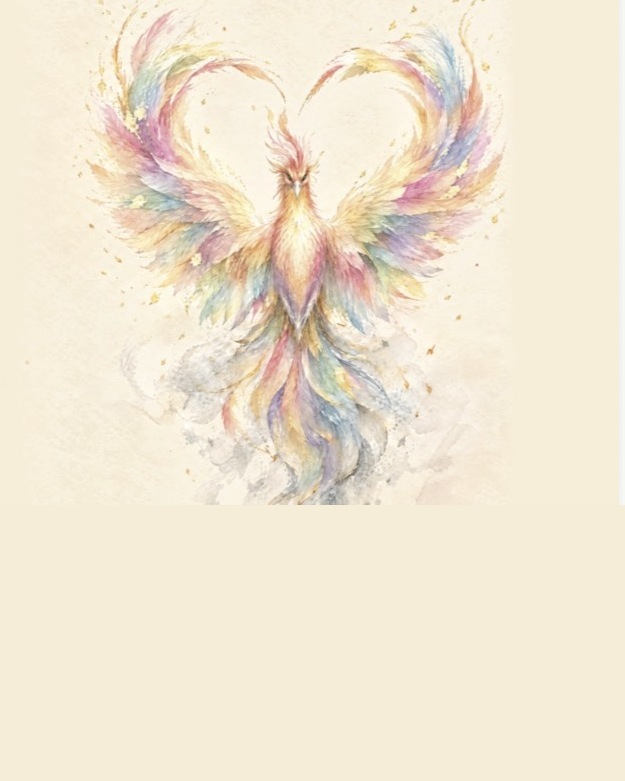
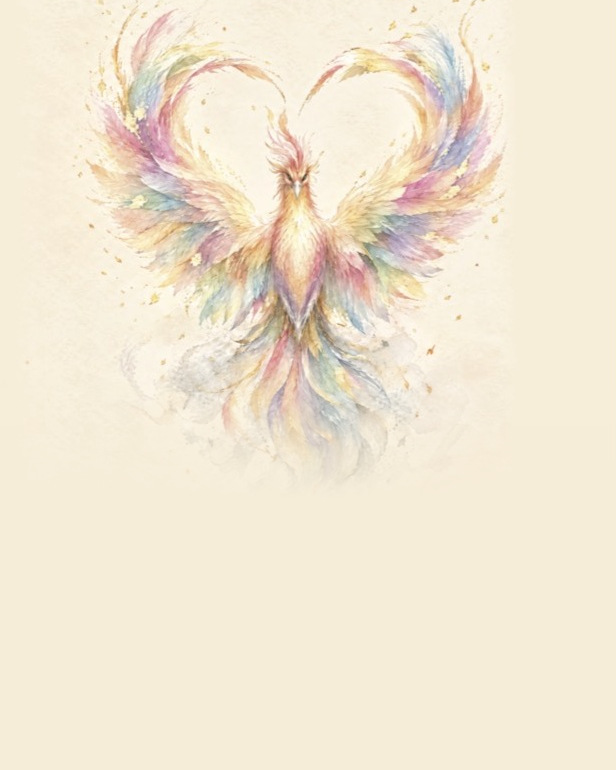
Corrige el recorte de las cubiertas y el usuario de Instagram
- El libro 3D toma la proporción real de cada cubierta en lugar de un
  marco fijo de 440x640 que recortaba la parte de abajo (la frase
  "Atrévete a arder. Atrévete a renacer."). Lo mismo en el cierre.
- El fénix de la portada termina en un fundido al papel en vez de en un
  corte seco.
- Usuario de Instagram: @aptorrescusa (antes @angel19643).

Claude-Session: https://claude.ai/code/session_019RwaMab3NRKTS3z65DGbsR

diff --git a/instagram-studio/engine/slides.css b/instagram-studio/engine/slides.css
@@ -281,22 +281,21 @@
 /* Portada con libro 3D protagonista */
 .t-portada.con-libro .content { bottom: 175px; gap: 26px; }
 .t-portada.con-libro .stage3d { top: 120px; height: 640px; }
-.t-portada.con-libro .book { width: 400px; height: 600px; }
+.t-portada.con-libro .book { height: 600px; }
 [data-tema$="acuarela"] .t-portada .sub, [data-tema="papel"] .t-portada .sub { color: var(--ink); }
 
 /* LIBRO */
 .t-libro .stage3d, .t-portada .stage3d { position: absolute; z-index: 2; left: 0; right: 0; top: 150px; height: 700px; perspective: 1800px; display: grid; place-items: center; }
 .t-libro .book, .t-portada .book {
   position: relative;
-  width: 440px;
-  height: 640px;
+  height: 640px;            /* el ancho sale de la proporción real de la cubierta: nunca se recorta */
   transform-style: preserve-3d;
   animation: book-in 2s var(--ease-out) .2s both, float 6s var(--ease-in-out) 2.2s infinite alternate;
 }
 .t-libro .book img, .t-portada .book img {
-  width: 100%;
+  display: block;
+  width: auto;
   height: 100%;
-  object-fit: cover;
   border-radius: 4px 10px 10px 4px;
   box-shadow: -2px 0 0 rgba(255,255,255,.18) inset, 30px 50px 90px var(--shadow-strong), 0 0 120px var(--glow);
 }
@@ -358,7 +357,7 @@
 .t-cta .logo { width: 210px; filter: var(--logo-filter); }
 .t-cta .wordmark { font: 500 30px/1 var(--serif); letter-spacing: .42em; margin-right: -.42em; text-transform: uppercase; color: var(--ink); }
 .t-cta .books { display: flex; gap: 26px; margin: 8px 0; }
-.t-cta .books img { width: 190px; height: 280px; object-fit: cover; border-radius: 4px 8px 8px 4px; box-shadow: 0 30px 70px var(--shadow-strong); }
+.t-cta .books img { display: block; width: auto; height: 280px; border-radius: 4px 8px 8px 4px; box-shadow: 0 30px 70px var(--shadow-strong); }
 .t-cta .pill.accent { font-size: 30px; padding: 24px 44px; animation: fade-up 1.2s var(--ease-out) var(--d) both, breathe 3.2s var(--ease-in-out) 3s infinite; }
 .t-cta .url { font: 500 28px/1 var(--sans); letter-spacing: .18em; text-transform: uppercase; color: var(--muted); }
 

diff --git a/instagram-studio/engine/engine.js b/instagram-studio/engine/engine.js
@@ -8,7 +8,7 @@ export const TIPOS = ["portada", "verso", "personaje", "libro", "texto", "lista"
 
 export const MARCA_POR_DEFECTO = {
   nombre: "A.P. Torrescusa",
-  usuario: "@angel19643",
+  usuario: "@aptorrescusa",
   web: "aptorrescusa.com",
   logo: null, // ruta a un logo oficial de la web; sin logo se usa la firma tipográfica de las cubiertas
 };

diff --git a/instagram-studio/brand/oficial/LEEME.md b/instagram-studio/brand/oficial/LEEME.md
@@ -3,12 +3,14 @@
 Archivos enviados como versión oficial y vigente (octubre 2026). Tienen prioridad sobre
 cualquier imagen de `assets/images/` del repositorio.
 
+Instagram oficial de Ángel: **@aptorrescusa**.
+
 | Archivo | Qué es | Uso |
 |---|---|---|
 | `fenix-mockup.png` | Maqueta 3D de *El amor del Fénix* | Referencia, historias |
 | `fenix-cubierta-completa.jpg` | Cubierta completa (contraportada, lomo, portada) | Fuente de los recortes |
 | `fenix-portada.jpg` | Portada plana (recorte) | Diapositivas `libro`, `cta` |
-| `fenix-ave.jpg` | El fénix de acuarela con margen de papel (recorte) | Fondo de portadas del Fénix |
+| `fenix-ave.jpg` | El fénix de acuarela (recorte, con fundido inferior al papel para que no haya corte) | Fondo de portadas del Fénix |
 | `autor-contraportada.jpg` | Foto del autor de la contraportada (recorte, baja resolución) | Solo de referencia: usar los retratos |
 | `autor-retrato-1.jpg` | Retrato oficial B/N, sentado, mano en la barbilla (896×1120) | Portadas y fichas del autor |
 | `autor-retrato-2.jpg` | Retrato oficial B/N, variante sonriendo (896×1120) | Bandas de imagen, CTA, historias |

diff --git a/.claude/skills/carrusel-instagram/SKILL.md b/.claude/skills/carrusel-instagram/SKILL.md
@@ -1,6 +1,6 @@
 ---
 name: carrusel-instagram
-description: Crea carruseles animados para el Instagram de A.P. Torrescusa (Ángel, @angel19643) con el sistema de instagram-studio/. Úsala siempre que se pida un carrusel, post, publicación de Instagram, contenido para redes, diapositivas animadas, o una pieza sobre El amor del Fénix, Los Portadores del Ojo Verde, Monte Redondo, los Sylvánimas, los libros firmados o el autor. También para renderizar, revisar o modificar un carrusel existente.
+description: Crea carruseles animados para el Instagram de A.P. Torrescusa (Ángel, @aptorrescusa) con el sistema de instagram-studio/. Úsala siempre que se pida un carrusel, post, publicación de Instagram, contenido para redes, diapositivas animadas, o una pieza sobre El amor del Fénix, Los Portadores del Ojo Verde, Monte Redondo, los Sylvánimas, los libros firmados o el autor. También para renderizar, revisar o modificar un carrusel existente.
 ---
 
 # Carrusel animado para Instagram · A.P. Torrescusa

diff --git a/instagram-studio/docs/06-referencia-json.md b/instagram-studio/docs/06-referencia-json.md
@@ -32,7 +32,7 @@ sueltos en la carpeta del carrusel o imágenes generadas. Ver [04-arte-oficial.m
 | `particulas` | número o `false` | según tema | Cantidad de partículas. |
 | `duracion` | segundos | 6 | Duración mínima por diapositiva (el motor alarga si el texto lo necesita). |
 | `fps` | 24 · 30 | 30 | Fotogramas por segundo del vídeo. |
-| `marca` | `{ "usuario": "@…", "web": "…", "logo": ruta }` | @angel19643 · aptorrescusa.com · sin logo | Datos de firma. Sin `logo`, el cierre muestra el nombre en versalitas espaciadas, como en las cubiertas. |
+| `marca` | `{ "usuario": "@…", "web": "…", "logo": ruta }` | @aptorrescusa · aptorrescusa.com · sin logo | Datos de firma. Sin `logo`, el cierre muestra el nombre en versalitas espaciadas, como en las cubiertas. |
 
 Cualquier diapositiva puede sobrescribir `tema`, `hilo`, `particulas`, `duracion` (3–60 s) y `enfoque`.
 

diff --git a/instagram-studio/docs/04-arte-oficial.md b/instagram-studio/docs/04-arte-oficial.md
@@ -32,7 +32,7 @@ entonces el render necesita conexión. Es mejor guardar una copia.
 | Archivo | Recorte de | Para |
 |---|---|---|
 | `fenix-portada.jpg` | Portada plana de la cubierta completa | `libro`, `cta` |
-| `fenix-ave.jpg` | El fénix de la portada, con margen de papel arriba y abajo | Fondo de `portada` |
+| `fenix-ave.jpg` | El fénix de la portada, con fundido inferior al papel (sin la frase de la cubierta) | Fondo de `portada` |
 | `portadores-portada.jpg` | Portada plana de la cubierta completa | `libro`, `portada` con `"libro"` |
 | `portadores-rostros.jpg` | Franja superior de la portada (los dos rostros) | Banda de imagen en `texto` |
 

diff --git a/instagram-studio/README.md b/instagram-studio/README.md
@@ -1,7 +1,7 @@
 # Instagram Studio · A.P. Torrescusa
 
 Sistema completo para crear **carruseles animados** para el Instagram de Ángel
-([@angel19643](https://www.instagram.com/angel19643/)).
+([@aptorrescusa](https://www.instagram.com/aptorrescusa/)).
 
 > **Fuente oficial: la web publicada [aptorrescusa.com](https://aptorrescusa.com).**
 > Los HTML de este repositorio no son la versión oficial: textos, precios, ISBN, tiendas y

diff --git a/instagram-studio/docs/01-estrategia.md b/instagram-studio/docs/01-estrategia.md
@@ -2,7 +2,7 @@
 
 ## Objetivo
 
-El Instagram de Ángel (@angel19643) tiene tres trabajos, en este orden:
+El Instagram de Ángel (@aptorrescusa) tiene tres trabajos, en este orden:
 
 1. **Crear lectores**: que alguien que no le conoce sienta algo en 3 segundos.
 2. **Construir universo**: que Monte Redondo y el Fénix se reconozcan a simple vista.
